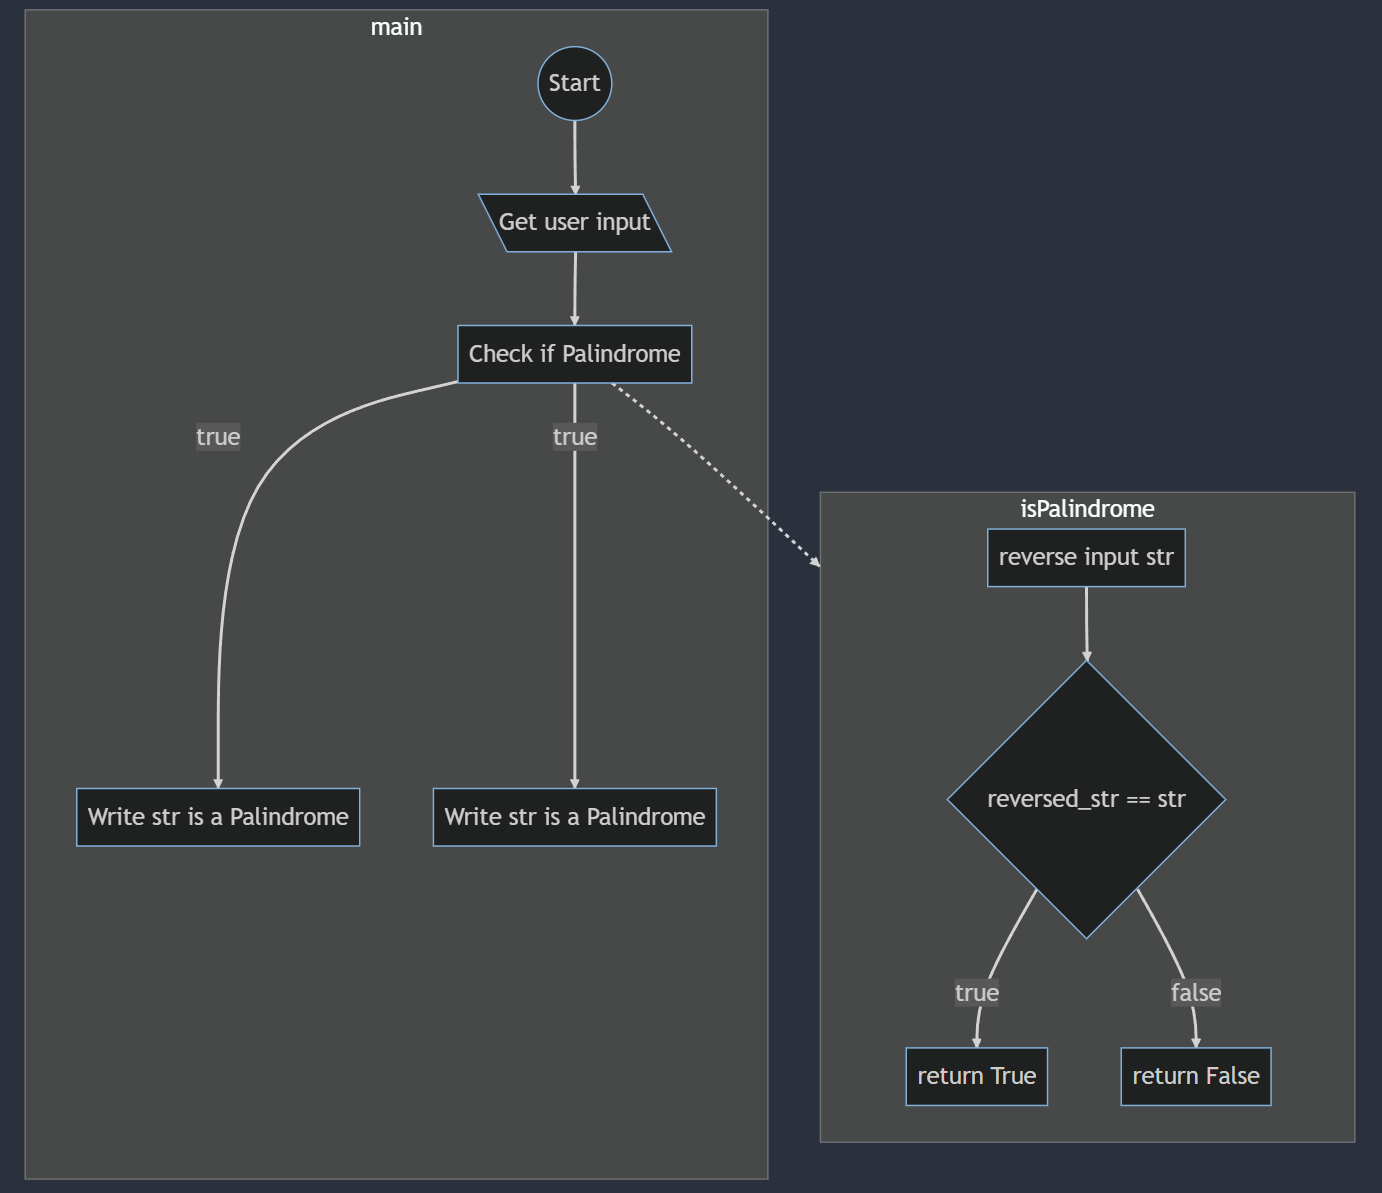
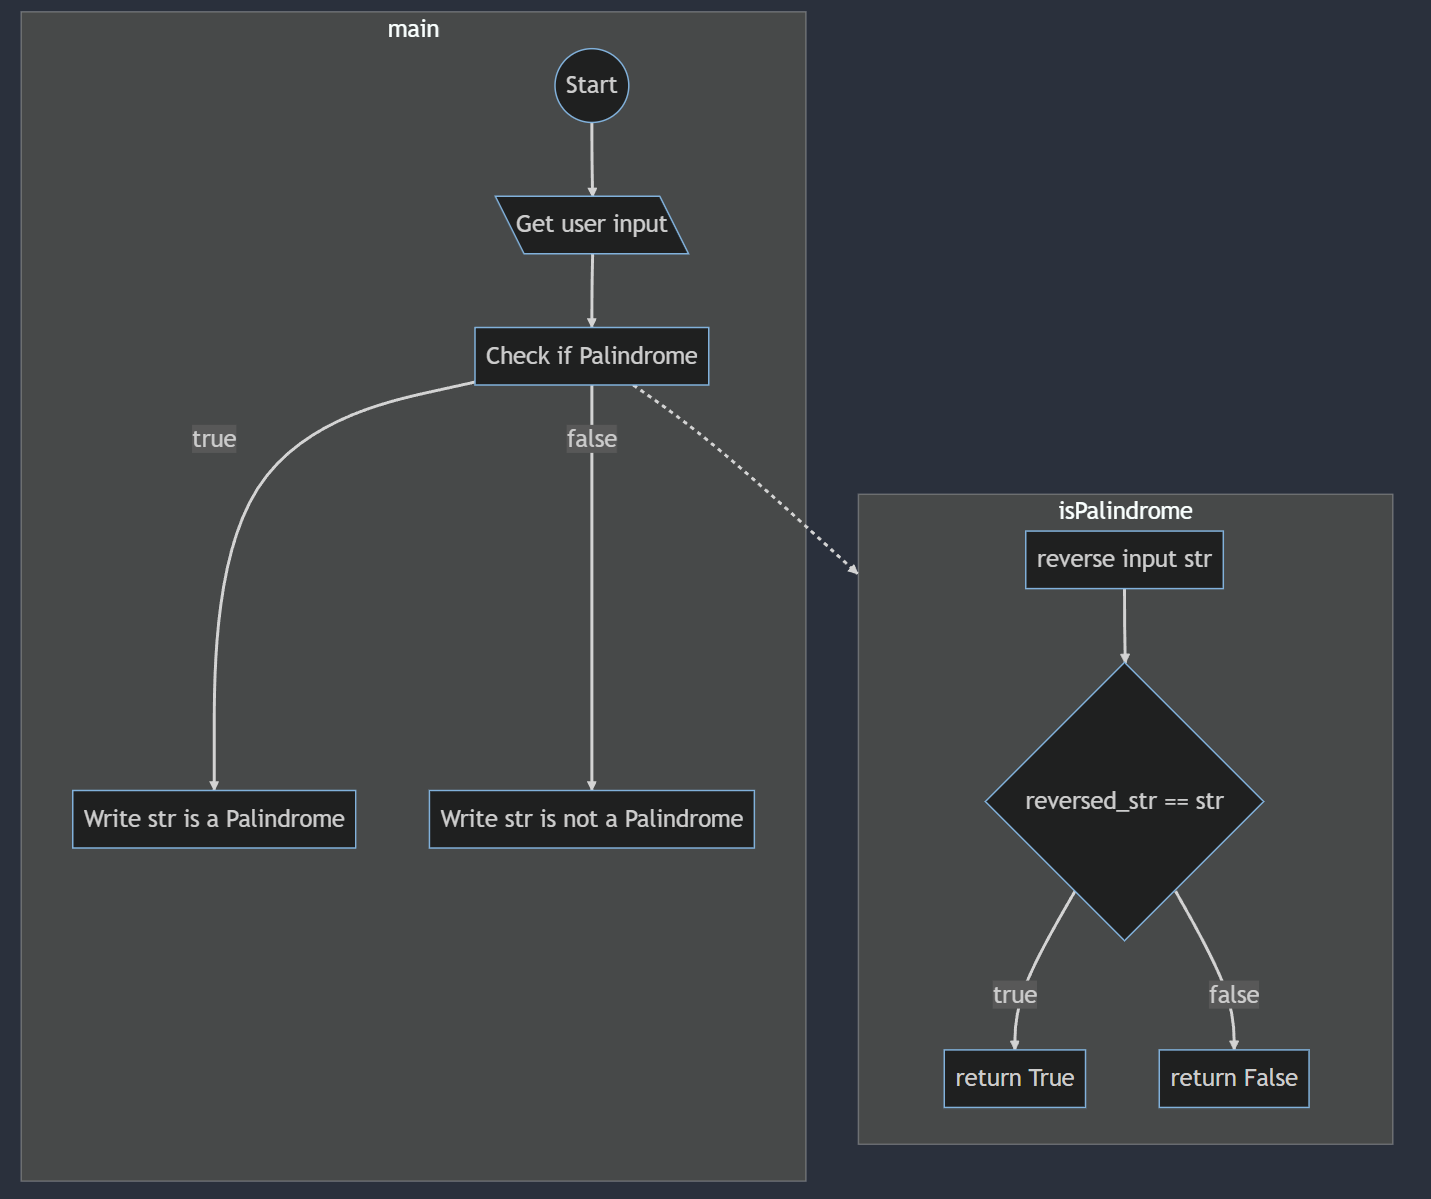
fix-blog-post-example
- fixed example flowchart in post

diff --git a/blog/content/posts/smart_flowcharts_for_docstrings.md b/blog/content/posts/smart_flowcharts_for_docstrings.md
@@ -56,7 +56,7 @@ def main():
     B --> C[Check if Palindrome]
     C -.-> isPalindrome
     C -- true --> D[Write str is a Palindrome]
-    C -- true --> E[Write str is a Palindrome]
+    C -- false --> E[Write str is not a Palindrome]
   """
   s = input('Enter string\n')
   ans = isPalindrome(s)
@@ -87,7 +87,7 @@ subgraph main
 A((Start)) --> B[\Get user input\]
 B --> C[Check if Palindrome]
 C -- true --> D[Write str is a Palindrome]
-C -- true --> E[Write str is a Palindrome]
+C -- false --> E[Write str is not a Palindrome]
 end
 C -.-> isPalindrome
 ```
@@ -95,3 +95,5 @@ C -.-> isPalindrome
 
 Output can be view by using the [mermaid Live Editor](https://mermaid.live/) or
 [the mermaid cli](https://github.com/mermaid-js/mermaid-cli) or rendered in a github README.
+
+** Edited on 4/1/23: small change to the given example **
